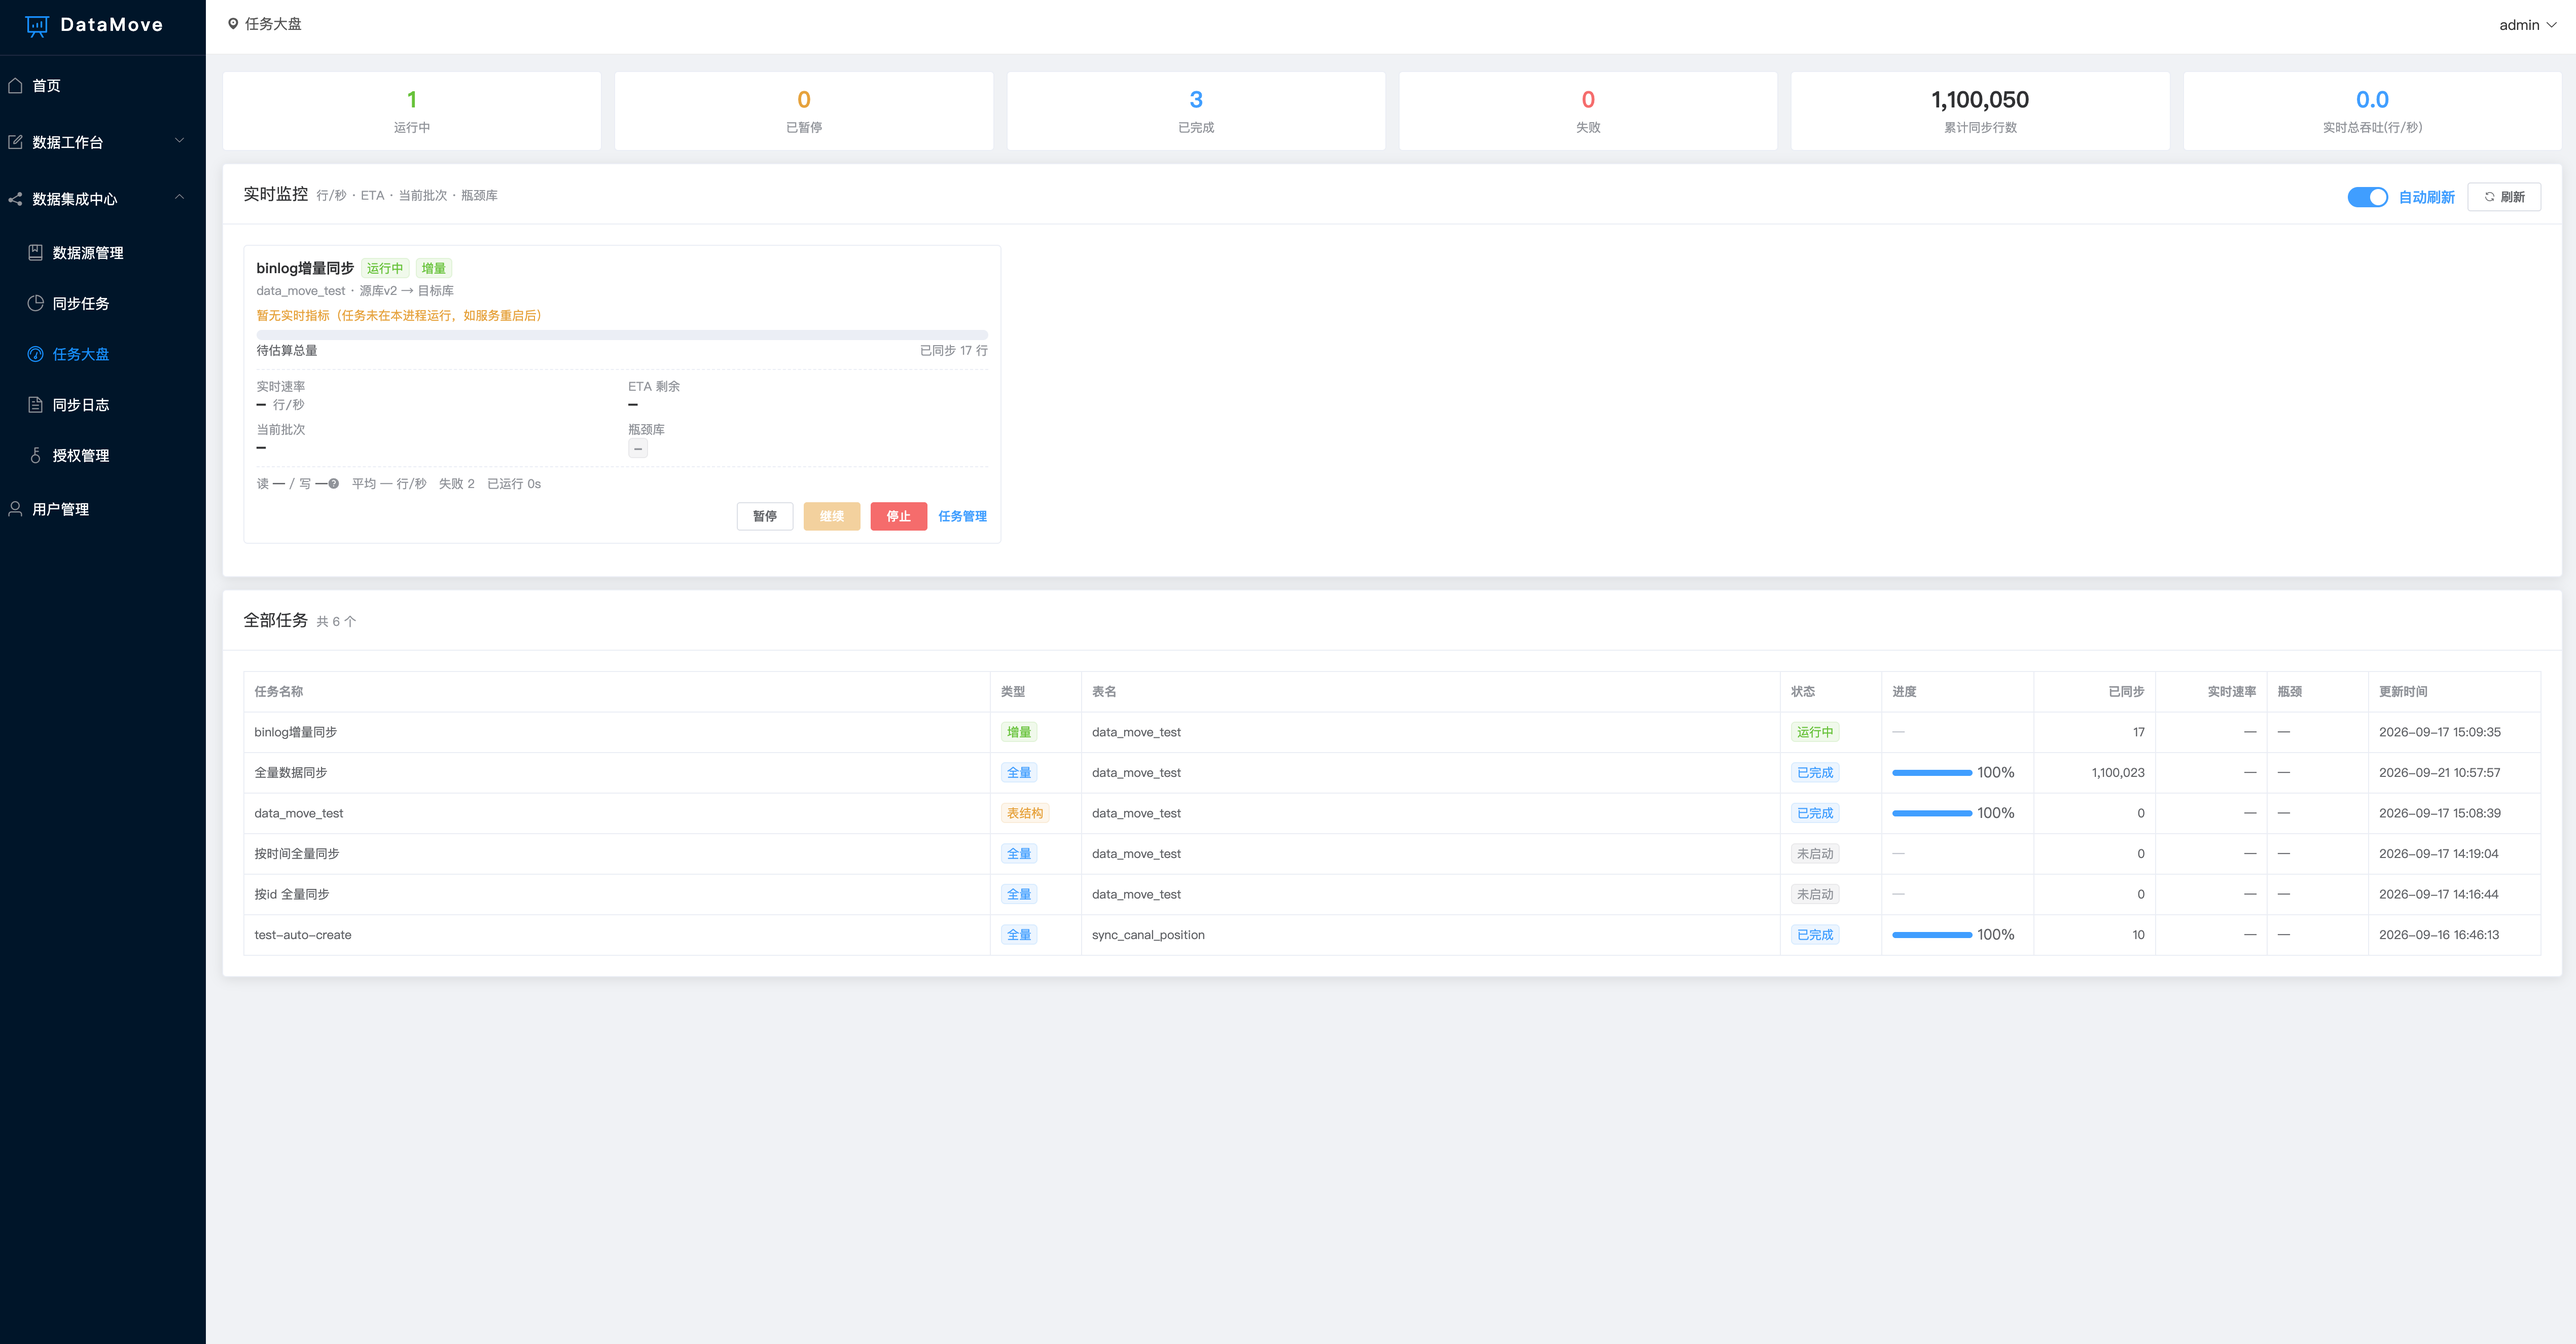
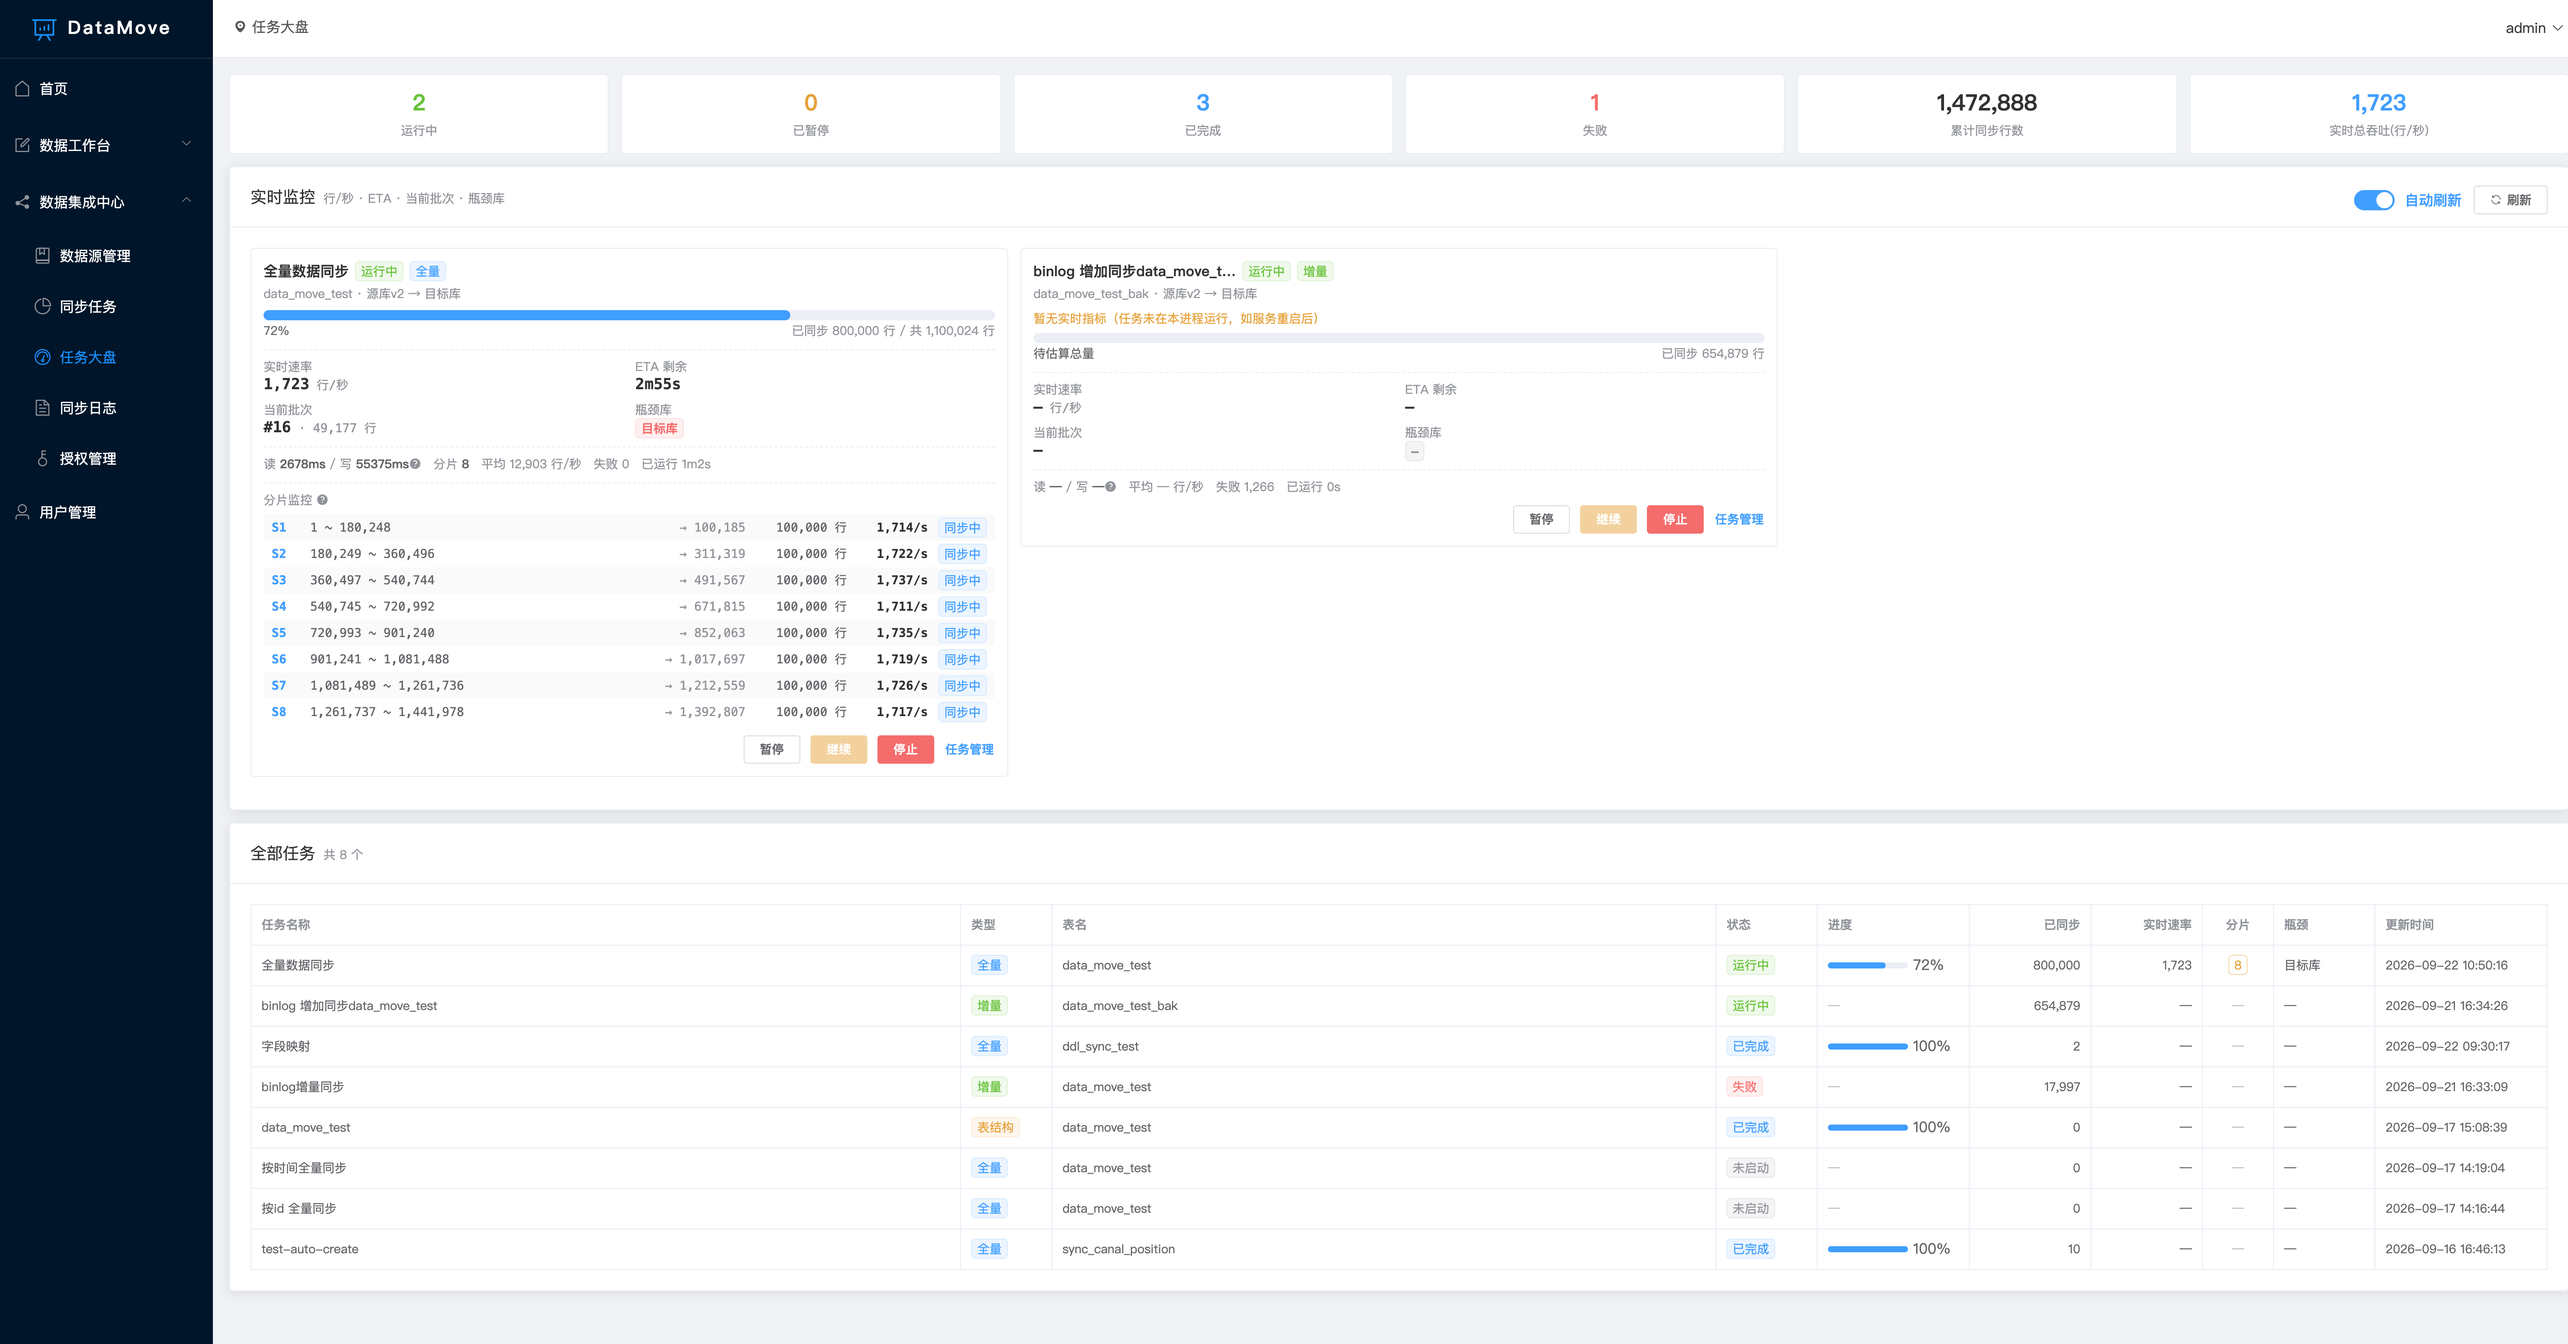
大盘增加分片实时监控

diff --git a/README.md b/README.md
@@ -110,7 +110,39 @@ datamove/
 - **单实例保护**:同一任务只能有一个 worker 在跑
 - **任务大盘** (`/sync/dashboard`):实时展示每个任务的 **行/秒**(10s 滑动窗口)、
   **ETA**(按源表总行数估算)、**当前批次**、**瓶颈库**(源库读取 对比 目标库写入耗时)、
-  进度与总吞吐, 有任务运行时 3s 自动刷新
+  进度与总吞吐; 分片任务额外展示每个分片的**区间、游标、实时速率、状态**, 有任务运行时 3s 自动刷新
+- **分片并行同步**(大数据提速):FULL+ID 模式配置 `shard_count > 1` 时按 `MIN/MAX(主键)` 均分区间,
+  每分片独立线程与连接并行读写, 吞吐近线性提升(1000 万行从约 31 分钟缩到数分钟);
+  断点续传任务自动回退单线程, 暂停后重跑幂等无脏数据
+
+#### 批次 (batch_size) 与分片 (shard_count) 的区别
+
+两者是不同维度的概念, **组合关系而非替代关系**——每个分片线程内部照样按批次拉取写入:
+
+| 维度 | 批次 (batch_size) | 分片 (shard_count) |
+|------|-------------------|--------------------|
+| 切分方向 | **时间维度**"分次" | **空间维度**"分区" |
+| 工作方式 | 单线程内按 `LIMIT batchSize` 游标循环, 一批写完 commit 再读下一批 | 整表按主键区间均分成 N 块, N 个线程**同时**各管一块 |
+| 目的 | 控制**内存**(不一次加载百万行)、缩短事务(避免长事务锁 binlog)、失败只重试一小批 | 提升**并行吞吐**(N 个独立源/目标连接读写并行, 耗时近线性 /N) |
+| 特点 | 串行, 同一时刻 1 读 1 写 | 区间互不重叠, 线程互不干扰 |
+
+```
+串行 (shard_count=1):
+  线程1: [批次1]→[批次2]→[批次3]→...→[批次N]        总时间 T
+
+分片并行 (shard_count=4):
+  线程1: [批次1]→[批次5]→...   ┐
+  线程2: [批次2]→[批次6]→...   ├─ 同时进行           总时间 ≈ T/4
+  线程3: [批次3]→[批次7]→...   ┘
+  线程4: [批次4]→[批次8]→...
+```
+
+**调参建议**:
+
+| 配置 | 字段 | 建议 |
+|------|------|------|
+| 批次大小 | `batch_size` | 1000~10000, 太大占内存、太小批次开销大 (见第十一章压测结论) |
+| 分片数 | `shard_count` | 1~16, 参考目标库写入能力, 分片越多对目标库写入压力越大 |
 
 ### 5.3 同步日志 - 对应文档 3.3
 - 任务总进度 / 单批次明细日志 / 异常错误日志
@@ -150,6 +182,12 @@ datamove/
 ### 2. 初始化数据库
 ```bash
 mysql -uroot -p < sql/datamove.sql
+```
+
+老库升级(已初始化过的环境):
+```bash
+mysql -uroot -p datamove < sql/upgrade_20260921_field_mapping.sql
+mysql -uroot -p datamove < sql/upgrade_20260922_shard_count.sql
 ```
 
 ### 3. 启动后端
@@ -204,7 +242,6 @@ SET GLOBAL binlog_format = 'ROW';
 ## 十、二期预留(本次未实现)
 
 - DDL 表结构同步
-- 多线程极速同步
 - 数据脱敏
 - 数据差异对账校验
 - SaaS 多租户网页版
